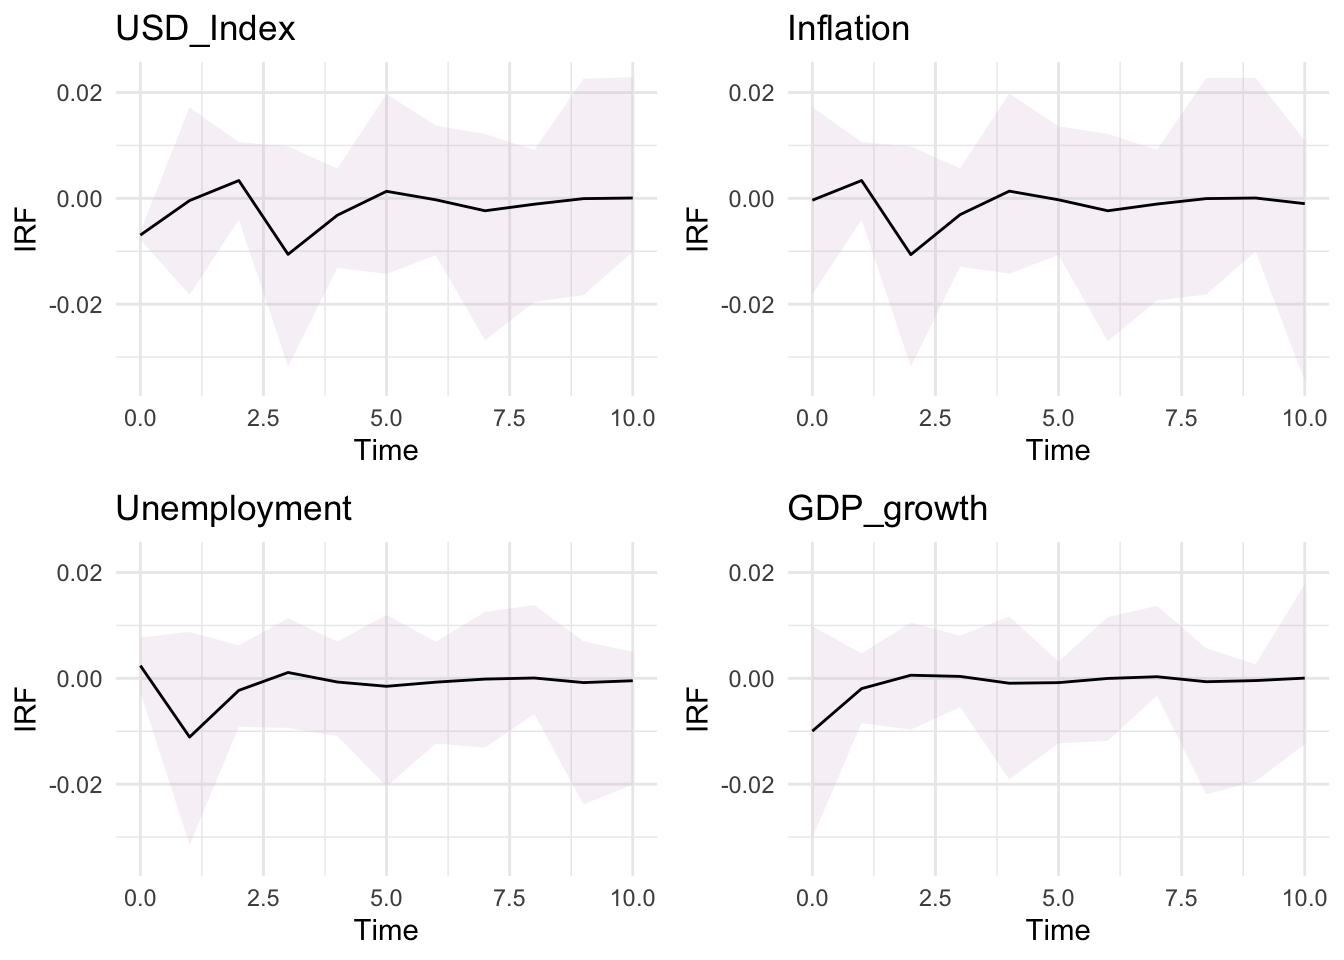
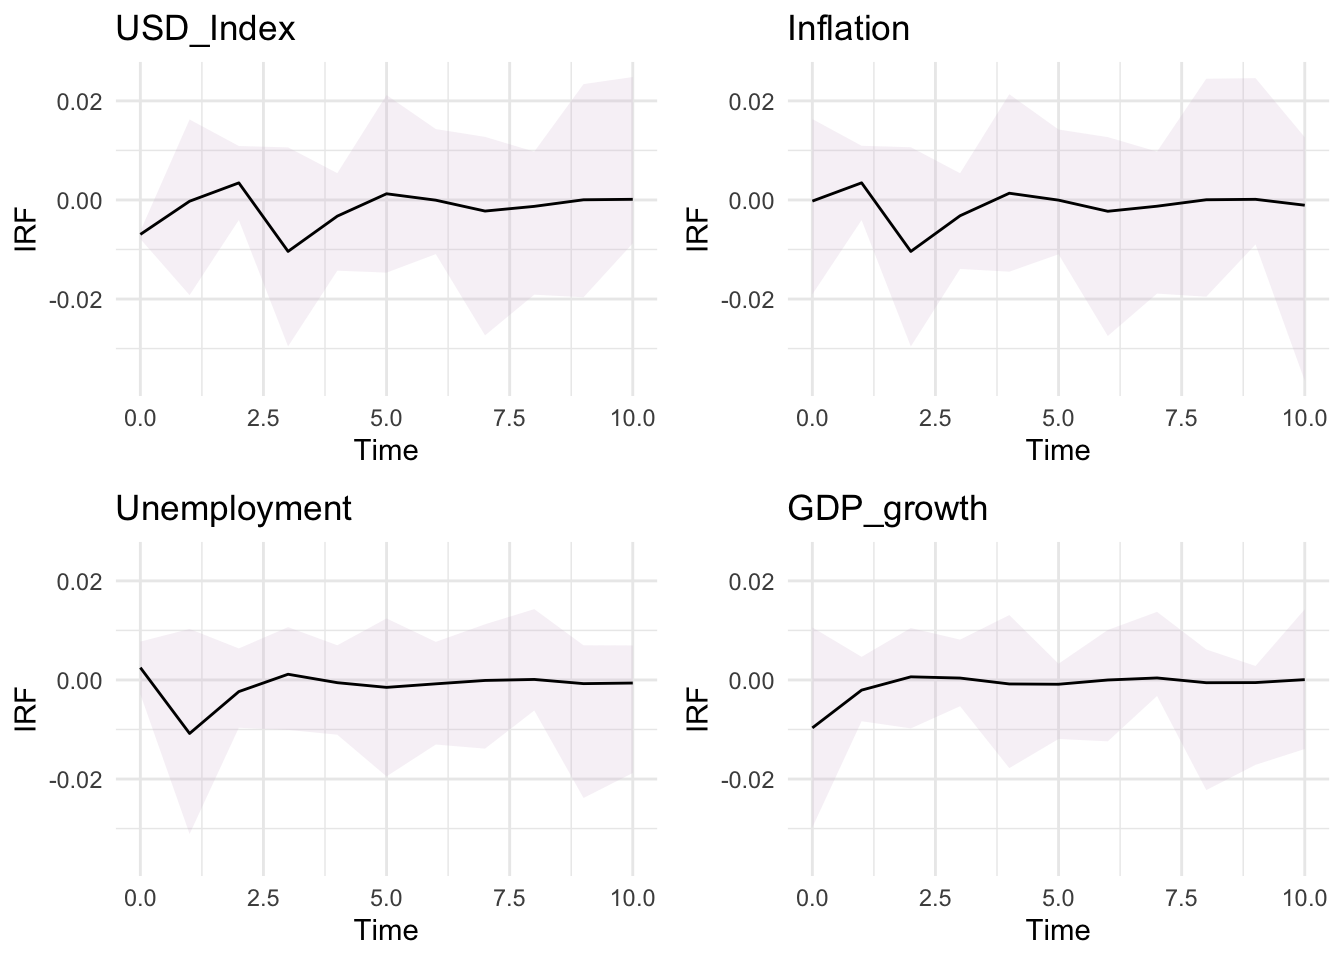
Also done with updtes to the RP

diff --git a/docs/index.html b/docs/index.html
@@ -650,21 +650,21 @@ p(B_+, B_0 \mid Y, X) \propto \mathcal{L}(Y \mid B_+, B_0, X) \cdot p(B_+, B_0)
 <pre><code>[1] "Random Walk Testing Normalized B0 matrix"</code></pre>
 </div>
 <div class="cell-output cell-output-stdout">
-<pre><code>            [,1]        [,2]       [,3]     [,4]
-[1,]  1.13930018  0.00000000 0.00000000 0.000000
-[2,] -0.02777325  1.12348228 0.00000000 0.000000
-[3,] -0.03510703 -0.09150157 1.24625642 0.000000
-[4,] -0.02278792 -0.12071540 0.07338822 1.240493</code></pre>
+<pre><code>            [,1]        [,2]        [,3]     [,4]
+[1,]  1.23551092 0.000000000  0.00000000 0.000000
+[2,] -0.01400557 1.202268785  0.00000000 0.000000
+[3,]  0.15927695 0.036851912  1.20351437 0.000000
+[4,]  0.04826060 0.005035643 -0.01277004 1.147067</code></pre>
 </div>
 <div class="cell-output cell-output-stdout">
 <pre><code>[1] "Random Walk Testing Bp matrix"</code></pre>
 </div>
 <div class="cell-output cell-output-stdout">
-<pre><code>             [,1]        [,2]         [,3]        [,4]         [,5]
-[1,]  0.011942002  1.12444513 -0.005149575 -0.00676039  0.003033157
-[2,]  0.001365404 -0.01594288  1.119551307 -0.01204702 -0.002848132
-[3,]  0.020145943 -0.04300681 -0.093219686  1.24282225 -0.005744686
-[4,] -0.035490639 -0.01433571 -0.129343105  0.08514140  1.241639037</code></pre>
+<pre><code>             [,1]        [,2]       [,3]         [,4]         [,5]
+[1,] -0.010352246  1.25073759 0.01082354 -0.005396458  0.004409712
+[2,]  0.110012910 -0.01235143 1.20028536  0.001960385 -0.004621904
+[3,]  0.005180497  0.16445673 0.03677214  1.200275294 -0.002608770
+[4,] -0.035551950  0.04843218 0.01587946 -0.019635373  1.140590055</code></pre>
 </div>
 </div>
 <p>Using only one lag for illustrative purposes, there is a clear convergence of the B0 towards an identity matrix. Bp has two parts, the intercept is approachign zero, while the rest of the matrix is approaching an identity matrix. We have enough evidence to see that the algorithm is able to estimate the random walk process.</p>
@@ -678,10 +678,10 @@ p(B_+, B_0 \mid Y, X) \propto \mathcal{L}(Y \mid B_+, B_0, X) \cdot p(B_+, B_0)
 </div>
 <div class="cell-output cell-output-stdout">
 <pre><code>           [,1]      [,2]     [,3]     [,4]
-[1,] 32.4626100 0.0000000 0.000000 0.000000
-[2,] -2.4607391 1.4353697 0.000000 0.000000
-[3,]  6.8733642 0.3267877 4.897150 0.000000
-[4,]  0.4260119 0.0613159 1.184948 1.265036</code></pre>
+[1,] 27.7662318 0.0000000 0.000000 0.000000
+[2,] -1.1302995 1.3902566 0.000000 0.000000
+[3,]  0.3401315 0.3020964 4.873703 0.000000
+[4,] -1.1498989 0.1890082 1.105062 1.277283</code></pre>
 </div>
 </div>
 <div class="cell">
@@ -692,8 +692,18 @@ p(B_+, B_0 \mid Y, X) \propto \mathcal{L}(Y \mid B_+, B_0, X) \cdot p(B_+, B_0)
 <pre><code>     [,1]  [,2]  [,3]  [,4] 
 [1,] "***" "NA"  "NA"  "NA" 
 [2,] ""    "***" "NA"  "NA" 
-[3,] "***" "***" "***" "NA" 
+[3,] ""    "**"  "***" "NA" 
 [4,] ""    ""    "***" "***"</code></pre>
+</div>
+<div class="cell-output cell-output-stdout">
+<pre><code>[1] "Significance for Bp Matrix (first ten columns):"</code></pre>
+</div>
+<div class="cell-output cell-output-stdout">
+<pre><code>     [,1] [,2]  [,3]  [,4]  [,5]  [,6] [,7] [,8] [,9]  [,10]
+[1,] ""   "***" ""    ""    ""    ""   ""   ""   ""    ""   
+[2,] ""   ""    "***" ""    ""    "*"  ""   ""   ""    ""   
+[3,] ""   ""    "***" "***" "***" ""   ""   "**" ""    ""   
+[4,] "**" ""    ""    "***" "***" ""   ""   ""   "***" ""   </code></pre>
 </div>
 </div>
 <div class="cell">
@@ -880,11 +890,11 @@ A \sim MN_{K \times N}(M, Q, P)
 <pre><code>[1] "Extension I Model Normalized B0 matrix"</code></pre>
 </div>
 <div class="cell-output cell-output-stdout">
-<pre><code>          [,1]        [,2]     [,3]     [,4]
-[1,] 33.054809  0.00000000 0.000000 0.000000
-[2,] -4.040027  1.42208845 0.000000 0.000000
-[3,]  7.843060  0.05558731 4.455513 0.000000
-[4,] -5.906600 -0.08000760 1.091295 1.289847</code></pre>
+<pre><code>            [,1]       [,2]     [,3]     [,4]
+[1,] 32.68275588 0.00000000 0.000000 0.000000
+[2,]  0.06982884 1.57917722 0.000000 0.000000
+[3,]  1.95790643 0.35702604 5.287087 0.000000
+[4,] -6.31726516 0.01353131 1.999476 1.434095</code></pre>
 </div>
 </div>
 <div class="cell">
@@ -895,8 +905,18 @@ A \sim MN_{K \times N}(M, Q, P)
 <pre><code>     [,1]  [,2]  [,3]  [,4] 
 [1,] "***" "NA"  "NA"  "NA" 
 [2,] ""    "***" "NA"  "NA" 
-[3,] "***" ""    "***" "NA" 
+[3,] ""    "***" "***" "NA" 
 [4,] "**"  ""    "***" "***"</code></pre>
+</div>
+<div class="cell-output cell-output-stdout">
+<pre><code>[1] "Significance for Bp Matrix (first ten columns):"</code></pre>
+</div>
+<div class="cell-output cell-output-stdout">
+<pre><code>     [,1] [,2]  [,3]  [,4]  [,5]  [,6] [,7] [,8] [,9]  [,10]
+[1,] ""   "***" ""    ""    ""    ""   ""   ""   ""    ""   
+[2,] ""   ""    "***" ""    ""    "*"  ""   ""   ""    ""   
+[3,] ""   ""    "***" "***" "***" ""   ""   "**" ""    ""   
+[4,] "**" ""    ""    "***" "***" ""   ""   ""   "***" ""   </code></pre>
 </div>
 </div>
 <div class="cell">
@@ -922,7 +942,7 @@ A \sim MN_{K \times N}(M, Q, P)
 </div>
 <div class="cell-output cell-output-stdout">
 <pre><code>   Min. 1st Qu.  Median    Mean 3rd Qu.    Max. 
-  3.133   3.528   3.639   3.646   3.749   4.857 </code></pre>
+  3.117   3.526   3.623   3.635   3.738   4.948 </code></pre>
 </div>
 <div class="cell-output-display">
 <div>
@@ -937,11 +957,11 @@ A \sim MN_{K \times N}(M, Q, P)
 <pre><code>[1] "Extension II Model Normalized B0 matrix"</code></pre>
 </div>
 <div class="cell-output cell-output-stdout">
-<pre><code>           [,1]         [,2]     [,3]     [,4]
-[1,] 22.7151067 0.0000000000 0.000000 0.000000
-[2,] -4.2885413 1.4442161177 0.000000 0.000000
-[3,]  1.6344494 0.3597668662 5.127365 0.000000
-[4,] -0.4059037 0.0001024829 1.765989 1.312784</code></pre>
+<pre><code>          [,1]       [,2]     [,3]     [,4]
+[1,] 22.496218 0.00000000 0.000000 0.000000
+[2,]  1.780771 1.39529933 0.000000 0.000000
+[3,]  4.475429 0.53534219 4.869592 0.000000
+[4,] -2.249046 0.05392476 1.779538 1.277026</code></pre>
 </div>
 </div>
 <div class="cell">
@@ -951,9 +971,19 @@ A \sim MN_{K \times N}(M, Q, P)
 <div class="cell-output cell-output-stdout">
 <pre><code>     [,1]  [,2]  [,3]  [,4] 
 [1,] "***" "NA"  "NA"  "NA" 
-[2,] "**"  "***" "NA"  "NA" 
-[3,] ""    "***" "***" "NA" 
+[2,] ""    "***" "NA"  "NA" 
+[3,] "**"  "***" "***" "NA" 
 [4,] ""    ""    "***" "***"</code></pre>
+</div>
+<div class="cell-output cell-output-stdout">
+<pre><code>[1] "Significance for Bp Matrix (first ten columns):"</code></pre>
+</div>
+<div class="cell-output cell-output-stdout">
+<pre><code>     [,1]  [,2]  [,3]  [,4]  [,5]  [,6] [,7] [,8] [,9] [,10]
+[1,] ""    "***" ""    ""    ""    ""   ""   ""   ""   ""   
+[2,] "***" ""    "***" ""    "*"   ""   ""   ""   ""   ""   
+[3,] ""    "***" "***" "***" "***" ""   ""   ""   ""   ""   
+[4,] ""    ""    ""    "***" "***" ""   "**" "*"  ""   ""   </code></pre>
 </div>
 </div>
 <div class="cell">
@@ -972,7 +1002,7 @@ A \sim MN_{K \times N}(M, Q, P)
 <div class="cell">
 <div class="cell-output cell-output-stdout">
 <pre><code>   Min. 1st Qu.  Median    Mean 3rd Qu.    Max. 
-  3.142   3.526   3.640   3.647   3.767   5.000 </code></pre>
+  3.172   3.531   3.644   3.652   3.748   4.858 </code></pre>
 </div>
 <div class="cell-output-display">
 <div>
@@ -987,11 +1017,11 @@ A \sim MN_{K \times N}(M, Q, P)
 <pre><code>[1] "Extension III Model Normalized B0 matrix"</code></pre>
 </div>
 <div class="cell-output cell-output-stdout">
-<pre><code>          [,1]         [,2]     [,3]     [,4]
-[1,] 30.084098  0.000000000 0.000000 0.000000
-[2,] -6.179360  1.535959442 0.000000 0.000000
-[3,]  3.676325  0.409024035 4.397218 0.000000
-[4,] -4.183265 -0.005209946 1.201027 1.321282</code></pre>
+<pre><code>          [,1]      [,2]     [,3]     [,4]
+[1,] 34.721353 0.0000000 0.000000 0.000000
+[2,]  4.805231 1.5161023 0.000000 0.000000
+[3,]  7.107679 0.5359840 4.664240 0.000000
+[4,] -5.611984 0.2425969 1.679391 1.331147</code></pre>
 </div>
 </div>
 <div class="cell">
@@ -1001,9 +1031,19 @@ A \sim MN_{K \times N}(M, Q, P)
 <div class="cell-output cell-output-stdout">
 <pre><code>     [,1]  [,2]  [,3]  [,4] 
 [1,] "***" "NA"  "NA"  "NA" 
-[2,] "*"   "***" "NA"  "NA" 
-[3,] ""    "***" "***" "NA" 
-[4,] ""    ""    "***" "***"</code></pre>
+[2,] ""    "***" "NA"  "NA" 
+[3,] "**"  "***" "***" "NA" 
+[4,] "**"  "*"   "***" "***"</code></pre>
+</div>
+<div class="cell-output cell-output-stdout">
+<pre><code>[1] "Significance for Bp Matrix (first ten columns):"</code></pre>
+</div>
+<div class="cell-output cell-output-stdout">
+<pre><code>     [,1] [,2]  [,3]  [,4]  [,5]  [,6] [,7] [,8] [,9]  [,10]
+[1,] ""   "***" ""    ""    ""    ""   ""   ""   ""    ""   
+[2,] "**" ""    "***" ""    "*"   "*"  ""   ""   "***" ""   
+[3,] ""   "***" "***" "***" "***" ""   ""   "*"  ""    ""   
+[4,] "*"  "**"  ""    "***" "***" "**" ""   ""   ""    ""   </code></pre>
 </div>
 </div>
 <div class="cell">
@@ -1025,9 +1065,10 @@ A \sim MN_{K \times N}(M, Q, P)
 <p>On the other hand, the first version of the expanded model, namely Extension I, which accounts for a random posterior scale for <span class="math inline">\(\lambda = \mathcal{IG2(s, \nu)}\)</span>, suggests that a weakening Dixie would result in <span class="math inline">\(\textbf{stagnation}\)</span> in Australia: 1 per cent decrease in the USD Index would result is roughly 23 per cent increase in inflation, roughly 3 per cent increase in unemployment, and roughly 0.2 per cent decrease in the GDP growth rate.</p>
 <p>In the second extension model, the Extension II version, <span class="math inline">\(\lambda\)</span>’s scale is held constant, while the shape parameter for <span class="math inline">\(\lambda = \mathcal{IG2(s, \nu)}\)</span>, namely <span class="math inline">\(\nu\)</span>, is estimated from the data itself, from matrix <span class="math inline">\(Y\)</span>. Here, the model calibrates the <span class="math inline">\(\textbf{stagnation}\)</span> story told in Extension I. It suggests that a 1 per cent decrease in the USD Index would result is roughly 0.8 per cent increase in inflation, roughly 1.1 per cent increase in unemployment, and roughly 0.6 per cent decrease in the GDP growth rate.</p>
 <p>In the third extension model, the Extension III version, <span class="math inline">\(\lambda\)</span>’s scale and shape are both estimated. The scale is estimated from the posterior for <span class="math inline">\(\lambda\)</span>, while the shape parameter for <span class="math inline">\(\lambda = \mathcal{IG2(s, \nu)}\)</span>, namely <span class="math inline">\(\nu\)</span>, is estimated from the data itself, from matrix <span class="math inline">\(Y\)</span>. Here, the model calibrates the <span class="math inline">\(\textbf{stagnation}\)</span> story told in Extension II. It suggests that a 1 per cent decrease in the USD Index would result is roughly 0.3 per cent increase in inflation, roughly 0.7 per cent increase in unemployment, and roughly 0.2 per cent decrease in the GDP growth rate.</p>
+<p>Also note that there is a statistically significant increase in inflation, although that does not occur until roughly four months after the negative shock. This can be seen in the significance matrix for Bp.</p>
 <p>Of course, all of the above analysis relates to a one-off 1% drop in the Dixie. One could extrapolate and suggest that a larger and sustained drop in the Dixie would be likely to aplify the expected stagnation in the Australian economy. This result is topical given the current pressures on the US dollar, especially through the introduction of a new BRICS currency. The question for government, and especially those in charge of fiscal and monetary policies, is this: What can Australia do today to mitigate the envisaged possibility of stagflation?</p>
 <p>Professor Tomasz Woźniak suggested revising the model to ensure that we can obtain statistically significant results. In particular, the proposition was to replate the unemployment rate with the RBA interest rate. This discussion was prior to the extension fo the basic model. As can be seen from the above results, Extenions I to III provide significant elasticities, while the IRF plots suggest statistically significant responses. Notwithstanding, there is room for improvement by adding a fifth variable, namely the interest rate. However, given the time constraints on finalizing this report, we decided to leave this third extension for further resreach.</p>
-<p>Finally, we need to explain that the extension models are able to produce IRF plots with a non-restricted B0 matrix. However, the ability to simiulate enough iterations of the model is restricted by the processor available for completing this assignment. We attempted a simpulation of 50,000 iterations but the simulation was still running even after nine hours. In our experience, the Gibbs sampler used for the model takes much longer to converge once the restriction on the B0 matrix are lifted. The same issue also arises when attempting to simulate the random walk using an unrestricted B0.</p>
+<p>Finally, we believe that the extension models are able to produce IRF plots with a non-restricted B0 matrix. However, the ability to simiulate enough iterations of the model is restricted by the processor available for completing this assignment. We attempted a simpulation of 50,000 iterations but the simulation was still running even after four hours. In our experience, the Gibbs sampler used for the model takes much longer to converge once the restriction on the B0 matrix are lifted. The same issue also arises when attempting to simulate the random walk using an unrestricted B0.</p>
 <div class="cell">
 <div class="cell-output-display">
 <div>
@@ -1045,24 +1086,24 @@ A \sim MN_{K \times N}(M, Q, P)
 <tbody>
 <tr class="odd">
 <td style="text-align: center;">Inflation</td>
-<td style="text-align: center;">-0.5833084</td>
-<td style="text-align: center;">-0.3519998</td>
-<td style="text-align: center;">-0.3367616</td>
-<td style="text-align: center;">-0.2485629</td>
+<td style="text-align: center;">-1.229990</td>
+<td style="text-align: center;">22.614972</td>
+<td style="text-align: center;">0.7835367</td>
+<td style="text-align: center;">0.3155108</td>
 </tr>
 <tr class="even">
 <td style="text-align: center;">Unemployment</td>
-<td style="text-align: center;">0.7124823</td>
-<td style="text-align: center;">0.5680835</td>
-<td style="text-align: center;">3.1370595</td>
-<td style="text-align: center;">1.1960908</td>
+<td style="text-align: center;">14.328879</td>
+<td style="text-align: center;">2.700378</td>
+<td style="text-align: center;">1.0880727</td>
+<td style="text-align: center;">0.6562255</td>
 </tr>
 <tr class="odd">
 <td style="text-align: center;">GDP Growth</td>
-<td style="text-align: center;">2.9694841</td>
-<td style="text-align: center;">-0.2183738</td>
-<td style="text-align: center;">-3.2342269</td>
-<td style="text-align: center;">-0.3158495</td>
+<td style="text-align: center;">-1.110779</td>
+<td style="text-align: center;">-0.227012</td>
+<td style="text-align: center;">-0.5678081</td>
+<td style="text-align: center;">-0.2371972</td>
 </tr>
 </tbody>
 </table>
